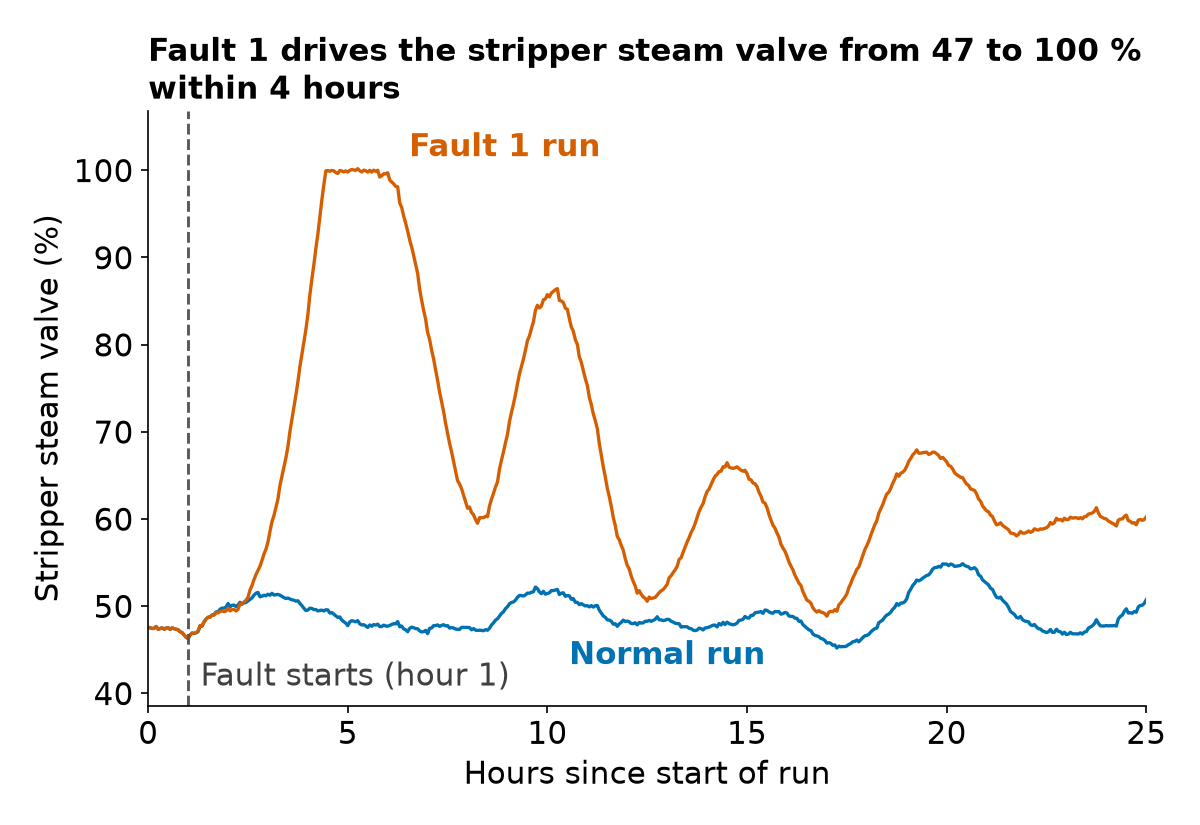
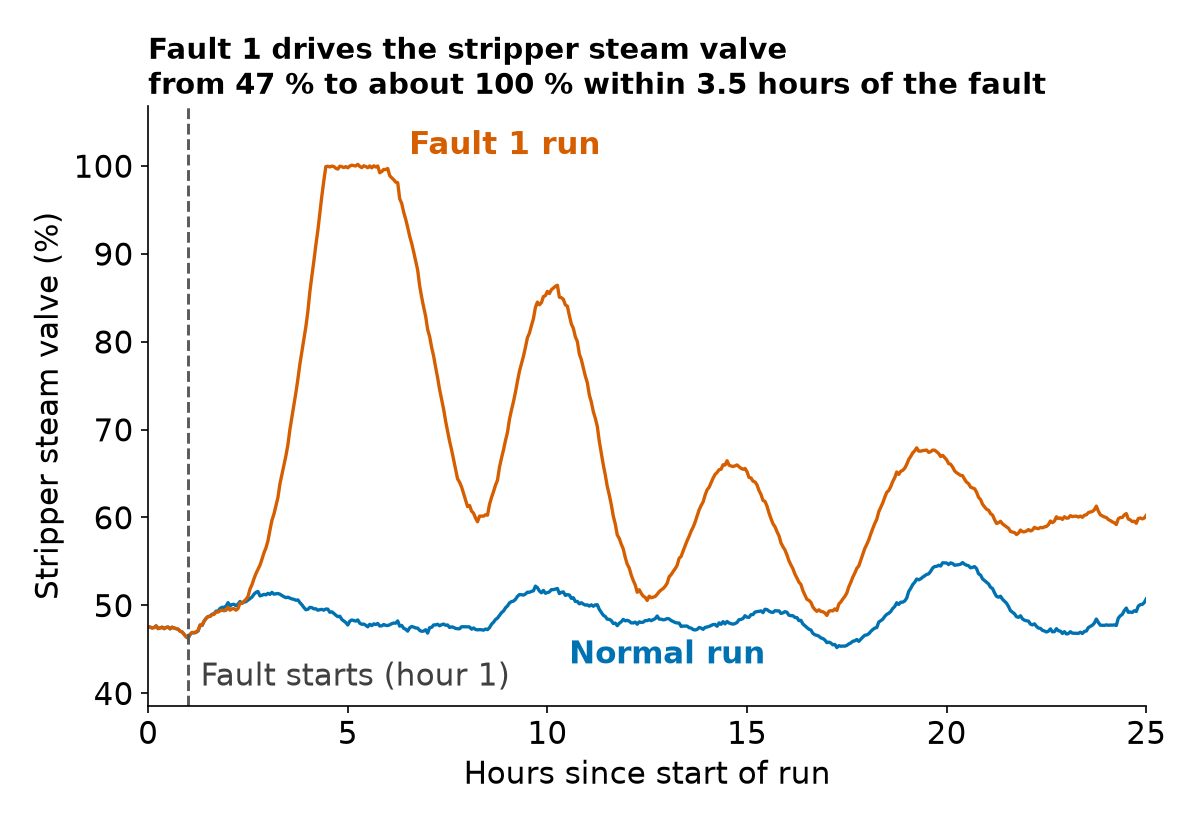
phase 0: review fixes

diff --git a/scripts/plot_fault1.py b/scripts/plot_fault1.py
@@ -10,71 +10,60 @@ import matplotlib
 
 matplotlib.use("Agg")
 import matplotlib.pyplot as plt
-import numpy as np
-import pyarrow.parquet as pq
 
 ROOT = Path(__file__).resolve().parent.parent
 sys.path.insert(0, str(ROOT))
 from src import data  # noqa: E402
 
-PROCESSED = ROOT / "data" / "processed"
 OUT = ROOT / "results" / "phase-0" / "figures" / "normal-vs-fault1.png"
-ONSET = 20            # Faulty_Training: fault starts after sample 20 (1 h)
-HOURS_PER_SAMPLE = 0.05  # 3-minute sampling
 NORMAL, FAULT = "#0072B2", "#D55E00"  # Okabe-Ito blue and vermillion
 
 
-def load_run(file, fault, run):
-    cols = ["sample"] + data.VARIABLES
-    return pq.read_table(PROCESSED / f"{file}.parquet", columns=cols,
-                         filters=[("faultNumber", "=", fault), ("simulationRun", "=", run)]).to_pandas()
-
-
 def main():
-    normal = load_run("TEP_FaultFree_Training", 0, 1)
-    faulty = load_run("TEP_Faulty_Training", 1, 1)
-    assert len(normal) == 500 and len(faulty) == 500
+    onset = data.onset_for("TEP_Faulty_Training")
+    n_samples = data.FILES["TEP_Faulty_Training"]["samples"]
+    normal = data.load_run("TEP_FaultFree_Training", 0, 1)
+    faulty = data.load_run("TEP_Faulty_Training", 1, 1)
+    assert len(normal) == len(faulty) == n_samples
 
-    shifts = data.rank_shifts(faulty, data.VARIABLES, ONSET)
-    print("Top 3 standardised mean shifts, fault 1 run 1 (after sample 20 vs samples 1-20):")
+    shifts = data.rank_shifts(faulty, data.VARIABLES, onset)
+    print(f"Top 3 standardised mean shifts, fault 1 run 1 (after sample {onset} vs samples 1-{onset}):")
     for var, s in shifts.head(3).items():
         name, unit = data.VARIABLE_INFO[var]
         print(f"  {var}: {name} ({unit})  shift = {s:.1f} pre-onset standard deviations")
 
     var = shifts.index[0]
     name, unit = data.VARIABLE_INFO[var]
-    pre = faulty.loc[faulty["sample"] <= ONSET, var].mean()
-    after = faulty[faulty["sample"] > ONSET]
-    peak_row = after.loc[after[var].abs().idxmax()] if abs(after[var].max() - pre) >= abs(after[var].min() - pre)         else after.loc[after[var].idxmin()]
-    peak = peak_row[var]
-    peak_row = after.loc[(after[var] - peak).abs() <= 0.005 * abs(peak)].iloc[0]  # first time at the peak (0.5 %)
-    hours_to_peak = peak_row["sample"] * HOURS_PER_SAMPLE - ONSET * HOURS_PER_SAMPLE
+    pre = faulty.loc[faulty["sample"] <= onset, var].mean()
+    peak_sample, peak = data.peak_after_onset(faulty, var, onset)
+    hours = round((peak_sample - onset) * data.HOURS_PER_SAMPLE * 2) / 2  # nearest half hour
     verb = "drives" if peak > pre else "pulls"
-    title = (f"Fault 1 {verb} the {name.lower()} from {pre:.0f} to {peak:.0f} {unit} "
-             f"within {int(np.ceil(hours_to_peak))} hours")
+    title = (f"Fault 1 {verb} the {name.lower()}\n"
+             f"from {pre:.0f} {unit} to about {peak:.0f} {unit} within {hours:g} hours of the fault")
+    onset_h = onset * data.HOURS_PER_SAMPLE
 
     plt.rcParams.update({"font.size": 15})
     fig, ax = plt.subplots(figsize=(8, 5.5), dpi=150)
     for df, colour in ((normal, NORMAL), (faulty, FAULT)):
-        ax.plot(df["sample"] * HOURS_PER_SAMPLE, df[var], color=colour, lw=1.6)
-    ax.axvline(ONSET * HOURS_PER_SAMPLE, color="0.35", ls="--", lw=1.4)
+        ax.plot(df["sample"] * data.HOURS_PER_SAMPLE, df[var], color=colour, lw=1.6)
+    ax.axvline(onset_h, color="0.35", ls="--", lw=1.4)
     top = max(normal[var].max(), faulty[var].max())
     bottom = min(normal[var].min(), faulty[var].min())
     pad = 0.12 * (top - bottom)
     ax.set_ylim(bottom - pad, top + pad)
-    ax.annotate("Fault starts (hour 1)", (ONSET * HOURS_PER_SAMPLE, 0.0), xycoords=("data", "axes fraction"),
+    ax.annotate(f"Fault starts (hour {onset_h:g})", (onset_h, 0.0), xycoords=("data", "axes fraction"),
                 xytext=(6, 6), textcoords="offset points", va="bottom", color="0.25")
-    ax.annotate("Fault 1 run", (peak_row["sample"] * HOURS_PER_SAMPLE, peak), xytext=(40, 6),
+    ax.annotate("Fault 1 run", (peak_sample * data.HOURS_PER_SAMPLE, peak), xytext=(40, 6),
                 textcoords="offset points", ha="left", color=FAULT, fontweight="bold")
     x_n = 13.0
-    y_n = normal.loc[(normal["sample"] * HOURS_PER_SAMPLE - x_n).abs().idxmin(), var]
+    y_n = normal.loc[(normal["sample"] * data.HOURS_PER_SAMPLE - x_n).abs().idxmin(), var]
     ax.annotate("Normal run", (x_n, y_n), xytext=(0, -10), textcoords="offset points", ha="center", va="top",
                 color=NORMAL, fontweight="bold")
-    last = 500 * HOURS_PER_SAMPLE
+    last = n_samples * data.HOURS_PER_SAMPLE
     ax.set_xlabel("Hours since start of run")
     ax.set_ylabel(f"{name} ({unit})")
     ax.set_xlim(0, last)
-    ax.set_title(title, loc="left", fontsize=15, fontweight="bold", wrap=True)
+    ax.set_title(title, loc="left", fontsize=14, fontweight="bold")
     for side in ("top", "right"):
         ax.spines[side].set_visible(False)
     fig.tight_layout()

diff --git a/src/data.py b/src/data.py
@@ -8,6 +8,7 @@ import hashlib
 import json
 import multiprocessing as mp
 import os
+import re
 import time
 import urllib.request
 from pathlib import Path
@@ -23,13 +24,24 @@ DOI = "doi:10.7910/DVN/6C3JR1"
 LIST_URL = f"https://dataverse.harvard.edu/api/datasets/:persistentId/versions/:latest/files?persistentId={DOI}"
 FILE_URL = "https://dataverse.harvard.edu/api/access/datafile/{id}"
 
-# Smallest first. Rows from the tep-data skill.
+ROOT = Path(__file__).resolve().parent.parent
+RAW = ROOT / "data" / "raw"
+PROCESSED = ROOT / "data" / "processed"
+
+# Smallest first. Rows and samples per run from the tep-data skill.
 FILES = {
-    "TEP_FaultFree_Training": {"id": 3031241, "rows": 250_000},
-    "TEP_FaultFree_Testing": {"id": 3031240, "rows": 480_000},
-    "TEP_Faulty_Training": {"id": 3031242, "rows": 5_000_000},
-    "TEP_Faulty_Testing": {"id": 3031243, "rows": 9_600_000},
+    "TEP_FaultFree_Training": {"id": 3031241, "rows": 250_000, "samples": 500},
+    "TEP_FaultFree_Testing": {"id": 3031240, "rows": 480_000, "samples": 960},
+    "TEP_Faulty_Training": {"id": 3031242, "rows": 5_000_000, "samples": 500},
+    "TEP_Faulty_Testing": {"id": 3031243, "rows": 9_600_000, "samples": 960},
 }
+HOURS_PER_SAMPLE = 3 / 60  # one sample every 3 minutes
+ONSET = {"Training": 20, "Testing": 160}  # fault starts after this sample (1 h / 8 h)
+
+
+def onset_for(name):
+    """Last normal sample of a faulty run: 20 for *_Training files, 160 for *_Testing files."""
+    return ONSET[name.rsplit("_", 1)[1]]
 
 ID_COLUMNS = ["faultNumber", "simulationRun", "sample"]
 VARIABLES = [f"xmeas_{i}" for i in range(1, 42)] + [f"xmv_{i}" for i in range(1, 12)]
@@ -191,6 +203,36 @@ def run_guarded(target, args, limit_gb, poll_s=0.02):
     return status, peak / GB
 
 
+def load_run(name, fault, run, processed_dir=PROCESSED):
+    """One simulation run (sample + 52 variables) from the processed parquet."""
+    return pq.read_table(Path(processed_dir) / f"{name}.parquet", columns=["sample"] + VARIABLES,
+                         filters=[("faultNumber", "=", fault), ("simulationRun", "=", run)]).to_pandas()
+
+
+def row_status(status, name, rows):
+    """Downgrade an 'ok' conversion to 'row_mismatch' if its row count differs from FILES[name]['rows']."""
+    if status == "ok" and rows != FILES[name]["rows"]:
+        return "row_mismatch"
+    return status
+
+
+def machine_label(cpu_name, ram_bytes):
+    """Non-identifying machine label: CPU model and RAM only (no hostname, user or paths)."""
+    m = re.search(r"i[3579]-[0-9]+[A-Z0-9]*", cpu_name)
+    cpu = f"Intel {m.group(0)}" if m else "unknown CPU"
+    return f"laptop, {cpu}, {ram_bytes / GB:.1f} GB RAM"
+
+
+def cpu_name():
+    """CPU model string from the Windows registry ('' if unavailable)."""
+    try:
+        import winreg
+        with winreg.OpenKey(winreg.HKEY_LOCAL_MACHINE, r"HARDWARE\DESCRIPTION\System\CentralProcessor\0") as k:
+            return winreg.QueryValueEx(k, "ProcessorNameString")[0]
+    except (ImportError, OSError):
+        return ""
+
+
 # --- fault shift ranking ----------------------------------------------------
 def rank_shifts(run, variables, onset):
     """|mean after onset - mean before| / std before, sorted descending.
@@ -203,3 +245,27 @@ def rank_shifts(run, variables, onset):
     std = pre.std(ddof=1)
     shift = ((post.mean() - pre.mean()).abs() / std).where(std > 0).dropna()
     return shift.sort_values(ascending=False)
+
+
+def peak_after_onset(run, var, onset, tol=0.005):
+    """(sample, value) of the first post-onset sample within tol (relative) of the extreme value.
+
+    The extreme is the post-onset value furthest from the pre-onset mean.
+    """
+    pre_mean = run.loc[run["sample"] <= onset, var].mean()
+    after = run[run["sample"] > onset]
+    extreme = after.loc[(after[var] - pre_mean).abs().idxmax(), var]
+    near = after[(after[var] - extreme).abs() <= tol * abs(extreme)]
+    first = near.iloc[0]
+    return int(first["sample"]), float(first[var])
+
+
+def is_up_to_date(names=None, raw_dir=RAW, processed_dir=PROCESSED, files=FILES):
+    """True if every raw file exists and every parquet exists with the expected row count (no network)."""
+    for name in names or files:
+        raw, parquet = Path(raw_dir) / f"{name}.RData", Path(processed_dir) / f"{name}.parquet"
+        if not raw.exists() or not parquet.exists():
+            return False
+        if pq.read_metadata(parquet).num_rows != files[name]["rows"]:
+            return False
+    return True

diff --git a/tests/test_data.py b/tests/test_data.py
@@ -126,3 +126,67 @@ def test_rank_shifts_ignores_constant_pre_stretch():
                         "xmeas_2": np.r_[np.tile([1.0, -1.0], 10), np.full(20, 1.0)]})
     ranked = data.rank_shifts(run, ["xmeas_1", "xmeas_2"], onset=20)
     assert list(ranked.index) == ["xmeas_2"]
+
+
+# --- review fixes -----------------------------------------------------------
+def test_onset_lookup():
+    assert data.onset_for("TEP_FaultFree_Training") == 20
+    assert data.onset_for("TEP_Faulty_Training") == 20
+    assert data.onset_for("TEP_FaultFree_Testing") == 160
+    assert data.onset_for("TEP_Faulty_Testing") == 160
+
+
+def test_samples_per_run_and_interval():
+    assert data.FILES["TEP_Faulty_Training"]["samples"] == 500
+    assert data.FILES["TEP_Faulty_Testing"]["samples"] == 960
+    assert data.HOURS_PER_SAMPLE == pytest.approx(3 / 60)
+
+
+def test_load_run_selects_one_run(tmp_path):
+    df = pd.concat([_synthetic(4).assign(faultNumber=f, simulationRun=r) for f in (0, 1) for r in (1, 2)])
+    df["xmeas_1"] = np.arange(len(df), dtype=float)
+    cast = data.cast_frame(df.copy())
+    cast.to_parquet(tmp_path / "TEP_Faulty_Training.parquet")
+    run = data.load_run("TEP_Faulty_Training", 1, 2, processed_dir=tmp_path)
+    assert list(run["sample"]) == [1, 2, 3, 4]
+    assert list(run["xmeas_1"]) == [12.0, 13.0, 14.0, 15.0]  # 4th block of 4 rows: indices 12..15
+
+
+def test_row_status_flags_mismatch():
+    assert data.row_status("ok", "TEP_FaultFree_Training", 250_000) == "ok"
+    assert data.row_status("ok", "TEP_FaultFree_Training", 249_999) == "row_mismatch"
+    assert data.row_status("over_limit", "TEP_FaultFree_Training", "") == "over_limit"
+    assert data.row_status("error", "TEP_FaultFree_Training", "") == "error"
+
+
+def test_machine_label_has_no_identifiers():
+    label = data.machine_label("11th Gen Intel(R) Core(TM) i5-1135G7 @ 2.40GHz", 7.73 * 1024 ** 3)
+    assert label == "laptop, Intel i5-1135G7, 7.7 GB RAM"
+    assert data.machine_label("", 8 * 1024 ** 3) == "laptop, unknown CPU, 8.0 GB RAM"
+
+
+def test_peak_after_onset_finds_first_sample_near_extreme():
+    samples = np.arange(1, 11)
+    values = [10, 10, 10, 20, 50, 99.8, 100, 60, 100, 30]  # onset 3: pre mean 10, extreme 100 (up)
+    run = pd.DataFrame({"sample": samples, "v": values})
+    sample, value = data.peak_after_onset(run, "v", onset=3)
+    assert sample == 6 and value == 99.8  # first within 0.5 % of 100
+
+
+def test_peak_after_onset_handles_downward_fault():
+    run = pd.DataFrame({"sample": np.arange(1, 9), "v": [10, 10, 10, 5, 0.0, 1, 0.0, 3]})
+    sample, value = data.peak_after_onset(run, "v", onset=3)
+    assert sample == 5 and value == 0.0
+
+
+def test_is_up_to_date(tmp_path):
+    files = {"a": {"rows": 6}}
+    raw, proc = tmp_path / "raw", tmp_path / "proc"
+    raw.mkdir(), proc.mkdir()
+    assert not data.is_up_to_date(raw_dir=raw, processed_dir=proc, files=files)       # nothing there
+    (raw / "a.RData").write_bytes(b"x")
+    assert not data.is_up_to_date(raw_dir=raw, processed_dir=proc, files=files)       # no parquet
+    data.cast_frame(_synthetic(5)).to_parquet(proc / "a.parquet")
+    assert not data.is_up_to_date(raw_dir=raw, processed_dir=proc, files=files)       # wrong row count
+    data.cast_frame(_synthetic(6)).to_parquet(proc / "a.parquet")
+    assert data.is_up_to_date(raw_dir=raw, processed_dir=proc, files=files)

diff --git a/scripts/prepare_data.py b/scripts/prepare_data.py
@@ -2,11 +2,12 @@
 
 Logs conversion runtime and peak RAM (process tree) per file to
 results/phase-0/conversion_log.csv. Conversions run in a child process that is
-killed if the tree passes LIMIT_GB.
+killed if the tree passes LIMIT_GB. If everything is already in place (raw files
+present, parquet with the right row counts) it reports "up to date" and touches
+neither the network nor the log.
 Usage: .venv/Scripts/python scripts/prepare_data.py [file names]   (default: all four)
 """
 import csv
-import platform
 import sys
 import time
 from pathlib import Path
@@ -19,22 +20,20 @@ sys.path.insert(0, str(ROOT))
 from src import data  # noqa: E402
 
 LIMIT_GB = 6.0
-RAW = ROOT / "data" / "raw"
-PROCESSED = ROOT / "data" / "processed"
 LOG = ROOT / "results" / "phase-0" / "conversion_log.csv"
 COLUMNS = ["file", "rows", "runtime_s", "peak_ram_gb", "machine", "status"]
 
 
-def machine():
-    ram = psutil.virtual_memory().total / data.GB
-    return f"{platform.node()} {platform.processor()} {ram:.1f}GB RAM"
-
-
 def main():
+    names = sys.argv[1:] or list(data.FILES)  # dict order = smallest first
+    if data.is_up_to_date(names):
+        print("up to date")
+        return
     md5s = data.fetch_md5s()
+    machine = data.machine_label(data.cpu_name(), psutil.virtual_memory().total)
     rows = []
-    for name in sys.argv[1:] or data.FILES:  # dict order = smallest first
-        rdata, parquet = RAW / f"{name}.RData", PROCESSED / f"{name}.parquet"
+    for name in names:
+        rdata, parquet = data.RAW / f"{name}.RData", data.PROCESSED / f"{name}.parquet"
         print(f"{name}: download {data.download(name, rdata, md5s[name])}", flush=True)
         parquet.unlink(missing_ok=True)
         t0 = time.perf_counter()
@@ -42,7 +41,7 @@ def main():
         runtime = time.perf_counter() - t0
         n = pq.read_metadata(parquet).num_rows if status == "ok" else ""
         rows.append({"file": name, "rows": n, "runtime_s": round(runtime, 1), "peak_ram_gb": round(peak, 2),
-                     "machine": machine(), "status": status})
+                     "machine": machine, "status": data.row_status(status, name, n)})
         print(rows[-1], flush=True)
         LOG.parent.mkdir(parents=True, exist_ok=True)
         with open(LOG, "w", newline="") as f:  # rewritten after every file so a crash keeps earlier rows
